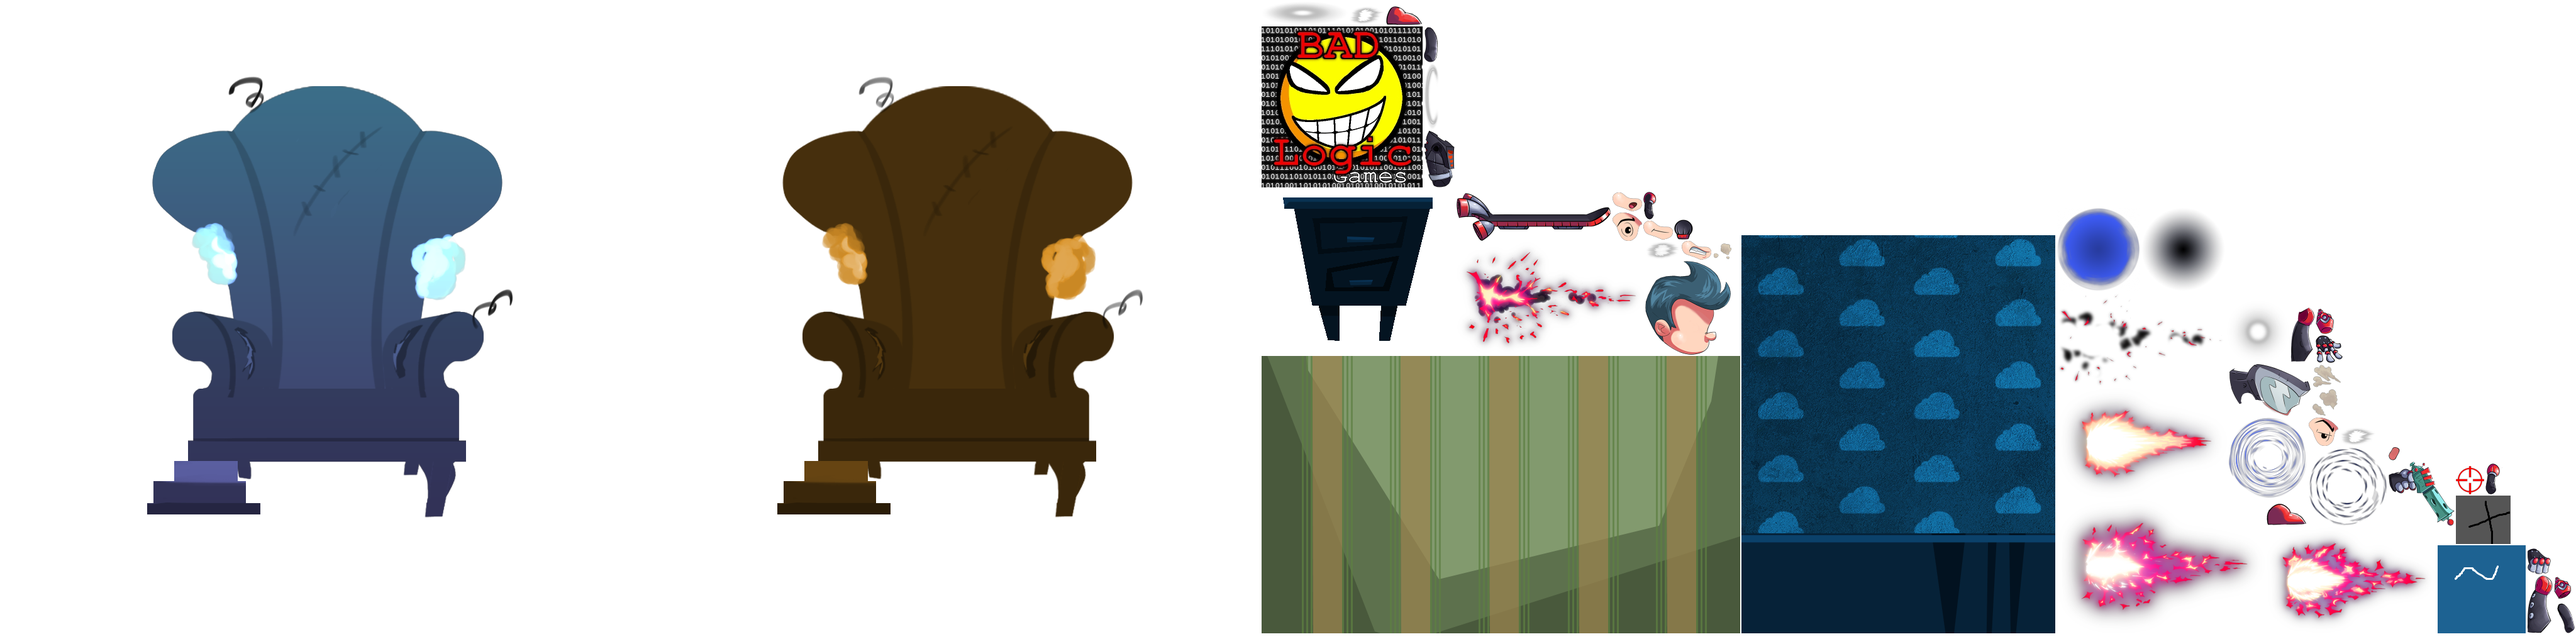
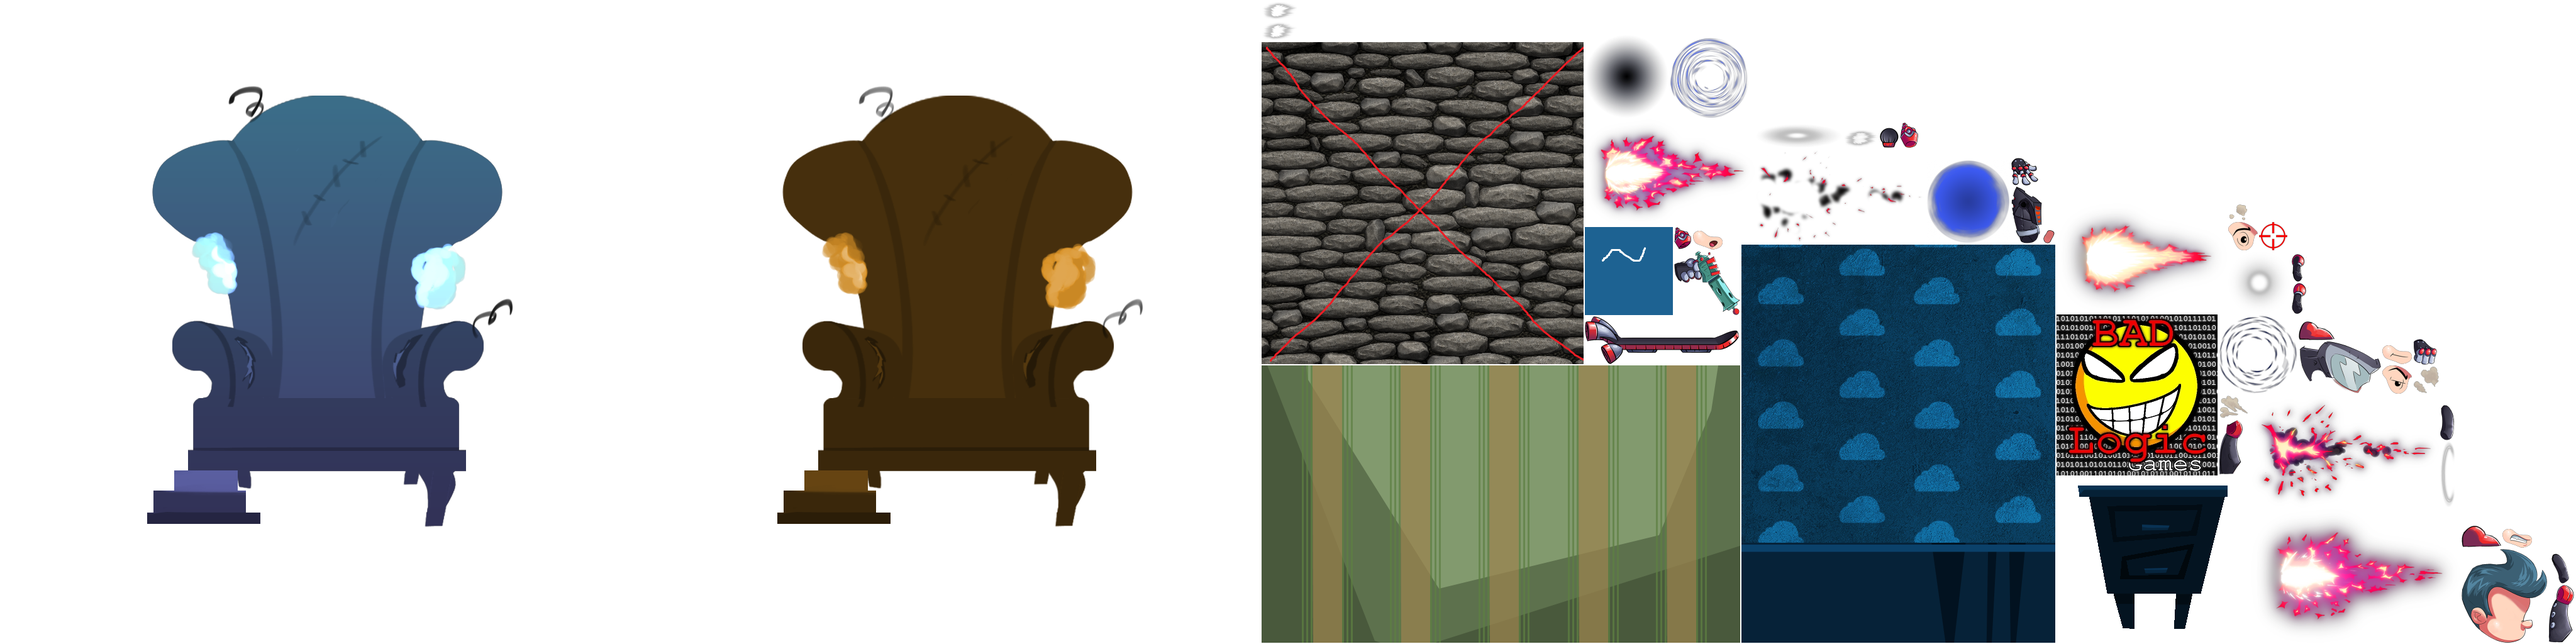
added grided face walls, functionality to change item texture.

diff --git a/core/src/com/rockbite/inetrnship/ghosthouse/data/GhostBuilding.java b/core/src/com/rockbite/inetrnship/ghosthouse/data/GhostBuilding.java
@@ -37,7 +37,7 @@ public class GhostBuilding {
         popInsideRooms();
         this.roomWalls = createRooms(rooms);
         this.faceWalls = createFaceWalls(rooms);
-       // makeGridOfFaceWalls();
+        makeGridOfFaceWalls();
         this.roomConnectingWalls = createConnectingWalls(rooms);
     }
 
@@ -306,32 +306,60 @@ public class GhostBuilding {
 
     void makeGridOfFaceWalls() {
         Vector2 gridOrigin = new Vector2(buildingOrigin.x, buildingOrigin.y);
-        float cellSize = buildingWidth / GRID_SIZE;
-        Array<GhostRectangle> xSliced = sliceByX(faceWalls, cellSize, GRID_SIZE, gridOrigin);
-        faceWalls = sliceByY(xSliced, cellSize, GRID_SIZE, gridOrigin);
+        float cellSize = 5.0f;
+        Array<GhostRectangle> xSliced = sliceByX(faceWalls, cellSize, gridOrigin);
+        faceWalls = sliceByY(xSliced, cellSize, gridOrigin);
     }
 
-    Array<GhostRectangle> sliceByX(Array<GhostRectangle> rects, float cellSize, int cellCount, Vector2 gridOrigin){
+    Array<GhostRectangle> sliceByX(Array<GhostRectangle> rects, float cellSize, Vector2 gridOrigin){
         Array<GhostRectangle> sliced = new Array<GhostRectangle>();
         for(int i = 0; i < rects.size; i++) {
             GhostRectangle rect = rects.get(i);
-            int column = (int)((rect.getX() - gridOrigin.x) / cellSize);
-            if(rect.getX() + rect.getWidth() > (column + 1) * cellSize) {
+            int column = MathUtils.floor((rect.getX() - gridOrigin.x) / cellSize);
+            if(rect.getWidth() > cellSize) {
                 GhostRectangle slicedRect = new GhostRectangle(rect);
-                slicedRect.setWidth((column + 1) * cellSize - rect.getX() - rect.getWidth());
+                slicedRect.setWidth((column + 1) * cellSize - rect.getX());
+                slicedRect.setuOrigin((slicedRect.getX() - column * cellSize) / cellSize);
+                slicedRect.setuWidht(1 - slicedRect.getuOrigin());
                 sliced.add(slicedRect);
                 rect.setX((column + 1) * cellSize);
                 rect.setWidth(rect.getWidth() - slicedRect.getWidth());
                 i--;
             }
             else {
+                rect.setuOrigin((rect.getX() - column * cellSize) / cellSize );
+                rect.setuWidht(rect.getWidth() / cellSize);
                 sliced.add(rect);
             }
         }
       return sliced;
     }
 
-    Array<GhostRectangle> sliceByY(Array<GhostRectangle> rects, float cellSize, int cellCount, Vector2 gridOrigin){
-        return new Array<GhostRectangle>();
+    Array<GhostRectangle> sliceByY(Array<GhostRectangle> rects, float cellSize, Vector2 gridOrigin){
+        Array<GhostRectangle> sliced = new Array<GhostRectangle>();
+        for(int i = 0; i < rects.size; i++) {
+            GhostRectangle rect = rects.get(i);
+            int row = (int)((rect.getY() - gridOrigin.y) / cellSize);
+            if(rect.getHeight() > cellSize) {
+                GhostRectangle slicedRect = new GhostRectangle(rect);
+                slicedRect.setHeight((row + 1) * cellSize - rect.getY());
+                slicedRect.setvOrigin(0);
+                slicedRect.setvHeight(slicedRect.getHeight() / cellSize);
+                sliced.add(slicedRect);
+                rect.setY((float)(row + 1) * cellSize);
+                rect.setHeight(rect.getHeight() - slicedRect.getHeight());
+                i--;
+            }
+            else {
+                rect.setvOrigin(((row + 1) * cellSize - (rect.getY() + rect.getHeight())) / cellSize);
+                if(rect.getvOrigin() < 0) {
+                    System.out.println("hello malmuao");
+                }
+                rect.setvHeight(rect.getHeight() / cellSize);
+                sliced.add(rect);
+
+            }
+        }
+        return sliced;
     }
 }

diff --git a/core/src/com/rockbite/inetrnship/ghosthouse/data/GhostRectangle.java b/core/src/com/rockbite/inetrnship/ghosthouse/data/GhostRectangle.java
@@ -14,7 +14,42 @@ public class GhostRectangle implements Comparable<GhostRectangle> {
     private float y;
     private float z;
     private String texture;
+    private float uOrigin;
+    private float vOrigin;
+    private float uWidht;
+    private  float vHeight;
 
+    public float getuOrigin() {
+        return uOrigin;
+    }
+
+    public void setuOrigin(float uOrigin) {
+        this.uOrigin = uOrigin;
+    }
+
+    public float getvOrigin() {
+        return vOrigin;
+    }
+
+    public void setvOrigin(float vOrigin) {
+        this.vOrigin = vOrigin;
+    }
+
+    public float getuWidht() {
+        return uWidht;
+    }
+
+    public void setuWidht(float uWidht) {
+        this.uWidht = uWidht;
+    }
+
+    public float getvHeight() {
+        return vHeight;
+    }
+
+    public void setvHeight(float vHeight) {
+        this.vHeight = vHeight;
+    }
 
     public String getTexture() {
         return texture;
@@ -32,17 +67,11 @@ public class GhostRectangle implements Comparable<GhostRectangle> {
         this.x = other.x;
         this.y = other.y;
         this.z = other.z;
+        this.uOrigin = other.uOrigin;
+        this.vOrigin = other.vOrigin;
+        this.uWidht = other.uWidht;
+        this.vHeight = other.vHeight;
         this.texture = other.texture;
-    }
-
-    public GhostRectangle(Vector3 origin, float width, float height, Vector3 normal, RectangleType type) {
-        this.type = type;
-        this.x = origin.x;
-        this.y = origin.y;
-        this.z = origin.z;
-        this.width = width;
-        this.height = height;
-        this.normal = normal;
     }
 
     public void setNormal(Vector3 normal) {
@@ -76,6 +105,10 @@ public class GhostRectangle implements Comparable<GhostRectangle> {
 
     public GhostRectangle(RectangleType type) {
         this.type = type;
+        this.uOrigin = 0;
+        this.vOrigin = 0;
+        this.uWidht = 1f;
+        this.vHeight = 1f;
     }
 
     public Vector3 getNormal() {

diff --git a/core/src/com/rockbite/inetrnship/ghosthouse/data/GhostMesh.java b/core/src/com/rockbite/inetrnship/ghosthouse/data/GhostMesh.java
@@ -170,8 +170,21 @@ public class GhostMesh {
             TextureAtlas.AtlasRegion region = rectangle.getType().getTexture(rectangle.getTexture());
             float diffU = region.getU2() - region.getU();
             float diffV = region.getV2() - region.getV();
-            vertices[vertexIndex.value++] = region.getU() + (i % 2) * diffU;
-            vertices[vertexIndex.value++] = region.getV() + ((3 - i) >> 1) * diffV;
+//            float atlasUOffs0et = region.getU() + (float)(i % 2) * diffU;
+//            float atlasVOffs0et = region.getV() + (float)((3 - i) >> 1) * diffV;
+            if(rectangle.getvOrigin() + rectangle.getvHeight() > 1) {
+                rectangle.setvHeight(rectangle.getvHeight() - (rectangle.getvOrigin() + rectangle.getvHeight() - 1));
+            }
+
+            if(rectangle.getuOrigin() + rectangle.getuWidht() > 1) {
+                rectangle.setuWidht(rectangle.getuWidht() - (rectangle.getuOrigin() + rectangle.getuWidht() - 1));
+            }
+
+            vertices[vertexIndex.value++] = region.getU() + diffU * rectangle.getuOrigin() + (float)(i % 2) * rectangle.getuWidht() * (diffU );
+            vertices[vertexIndex.value++] = region.getV() + diffV * rectangle.getvOrigin() + (float)((3 - i) >> 1) * rectangle.getvHeight() * (diffV);
+
+          //  vertices[vertexIndex.value++] = rectangle.getuOrigin() / AssetLoader.ATLAS_WIDTH + (float)(i % 2) * rectangle.getuWidht() / AssetLoader.ATLAS_WIDTH + atlasUOffs0et;
+          //  vertices[vertexIndex.value++] = rectangle.getvOrigin() / AssetLoader.ATLAS_HEIGHT + (float)((3 - i) >> 1) * rectangle.getvHeight() / AssetLoader.ATLAS_HEIGHT + atlasVOffs0et;
 
             // Normal
             vertices[vertexIndex.value++] = normal.x;

diff --git a/core/src/com/rockbite/inetrnship/ghosthouse/AssetLoader.java b/core/src/com/rockbite/inetrnship/ghosthouse/AssetLoader.java
@@ -22,6 +22,9 @@ public class AssetLoader extends AssetManager {
     private Array<Room> rooms;
     public static TextureAtlas atlas;
 
+    public static float ATLAS_HEIGHT;
+    public static float ATLAS_WIDTH;
+
     public AssetLoader() {
 ///       WARNING: DO NOT ATTEMPT TO DELETEEE!!!!!!!! Thanks :)
 //        TexturePacker.Settings settings = new TexturePacker.Settings();
@@ -32,6 +35,8 @@ public class AssetLoader extends AssetManager {
 //        TexturePacker.process(settings,"textures",
 //                "packed", "game");
         atlas = new TextureAtlas(Gdx.files.internal("packed/game.atlas"));
+        ATLAS_HEIGHT = atlas.getTextures().first().getHeight();
+        ATLAS_WIDTH = atlas.getTextures().first().getWidth();
         loadGameData();
     }
 

diff --git a/core/src/com/rockbite/inetrnship/ghosthouse/data/Room.java b/core/src/com/rockbite/inetrnship/ghosthouse/data/Room.java
@@ -78,6 +78,22 @@ public abstract class Room implements Comparable<Room> {
         return null;
     }
 
+    public void changeTexture(int itemID, String textureName) {
+        Entity item = getItemById(itemID);
+        TextureComponent comp = item.getComponent(TextureComponent.class);
+        comp.setTexture(textureName);
+    }
+
+    private Entity getItemById(int itemID) {
+        for(Entity entity: items) {
+            ItemIdComponent comp =  entity.getComponent(ItemIdComponent.class);
+            if(comp.getItemID() == itemID) {
+                return entity;
+            }
+        }
+        return null;
+    }
+
 
     @Override
     public int compareTo(Room o) {

diff --git a/core/src/com/rockbite/inetrnship/ghosthouse/InputController.java b/core/src/com/rockbite/inetrnship/ghosthouse/InputController.java
@@ -99,8 +99,9 @@ return true; //return true if item is interactable
     public boolean touchDown(int screenX, int screenY, int pointer, int button) {
             ray = cameraSystem.cam.getPickRay(Gdx.input.getX(), Gdx.input.getY());//casting the ray
             short[] temo = mesh.itemIndices.clone();
+            int offset = temo[0];
             for (int i = 0; i < temo.length; i++) {
-                temo[i] -= 132;
+                temo[i] -= offset;
                 if (temo[i] < 0) {
                     temo[i] = 0;
                 }

diff --git a/core/src/com/rockbite/inetrnship/ghosthouse/ecs/components/TextureComponent.java b/core/src/com/rockbite/inetrnship/ghosthouse/ecs/components/TextureComponent.java
@@ -5,6 +5,14 @@ import com.badlogic.ashley.core.Component;
 public class TextureComponent implements Component {
     public String texture;
 
+    public String getTexture() {
+        return texture;
+    }
+
+    public void setTexture(String texture) {
+        this.texture = texture;
+    }
+
     public TextureComponent(String texture) {
         this.texture = texture;
     }

diff --git a/core/src/com/rockbite/inetrnship/ghosthouse/MainGame.java b/core/src/com/rockbite/inetrnship/ghosthouse/MainGame.java
@@ -82,7 +82,7 @@ public class MainGame {
 
         multiplexer.addProcessor( ghostHouse.mainUI);
         multiplexer.addProcessor(inputController);
-        Gdx.input.setInputProcessor(multiplexer);
+        //Gdx.input.setInputProcessor(multiplexer);
 
         Entity ghost = HelperClass.createGhost(ghostPosition);
         engine.addEntity(ghost);

diff --git a/core/src/com/rockbite/inetrnship/ghosthouse/MainUI.java b/core/src/com/rockbite/inetrnship/ghosthouse/MainUI.java
@@ -32,7 +32,7 @@ MyActor actor;
 
        // actor=new MyActor();
       //  this.addActor(actor);
-        Gdx.input.setInputProcessor(this);
+      //  Gdx.input.setInputProcessor(this);
        // this.setKeyboardFocus(actor);
 
         this.addActor(inventory);
